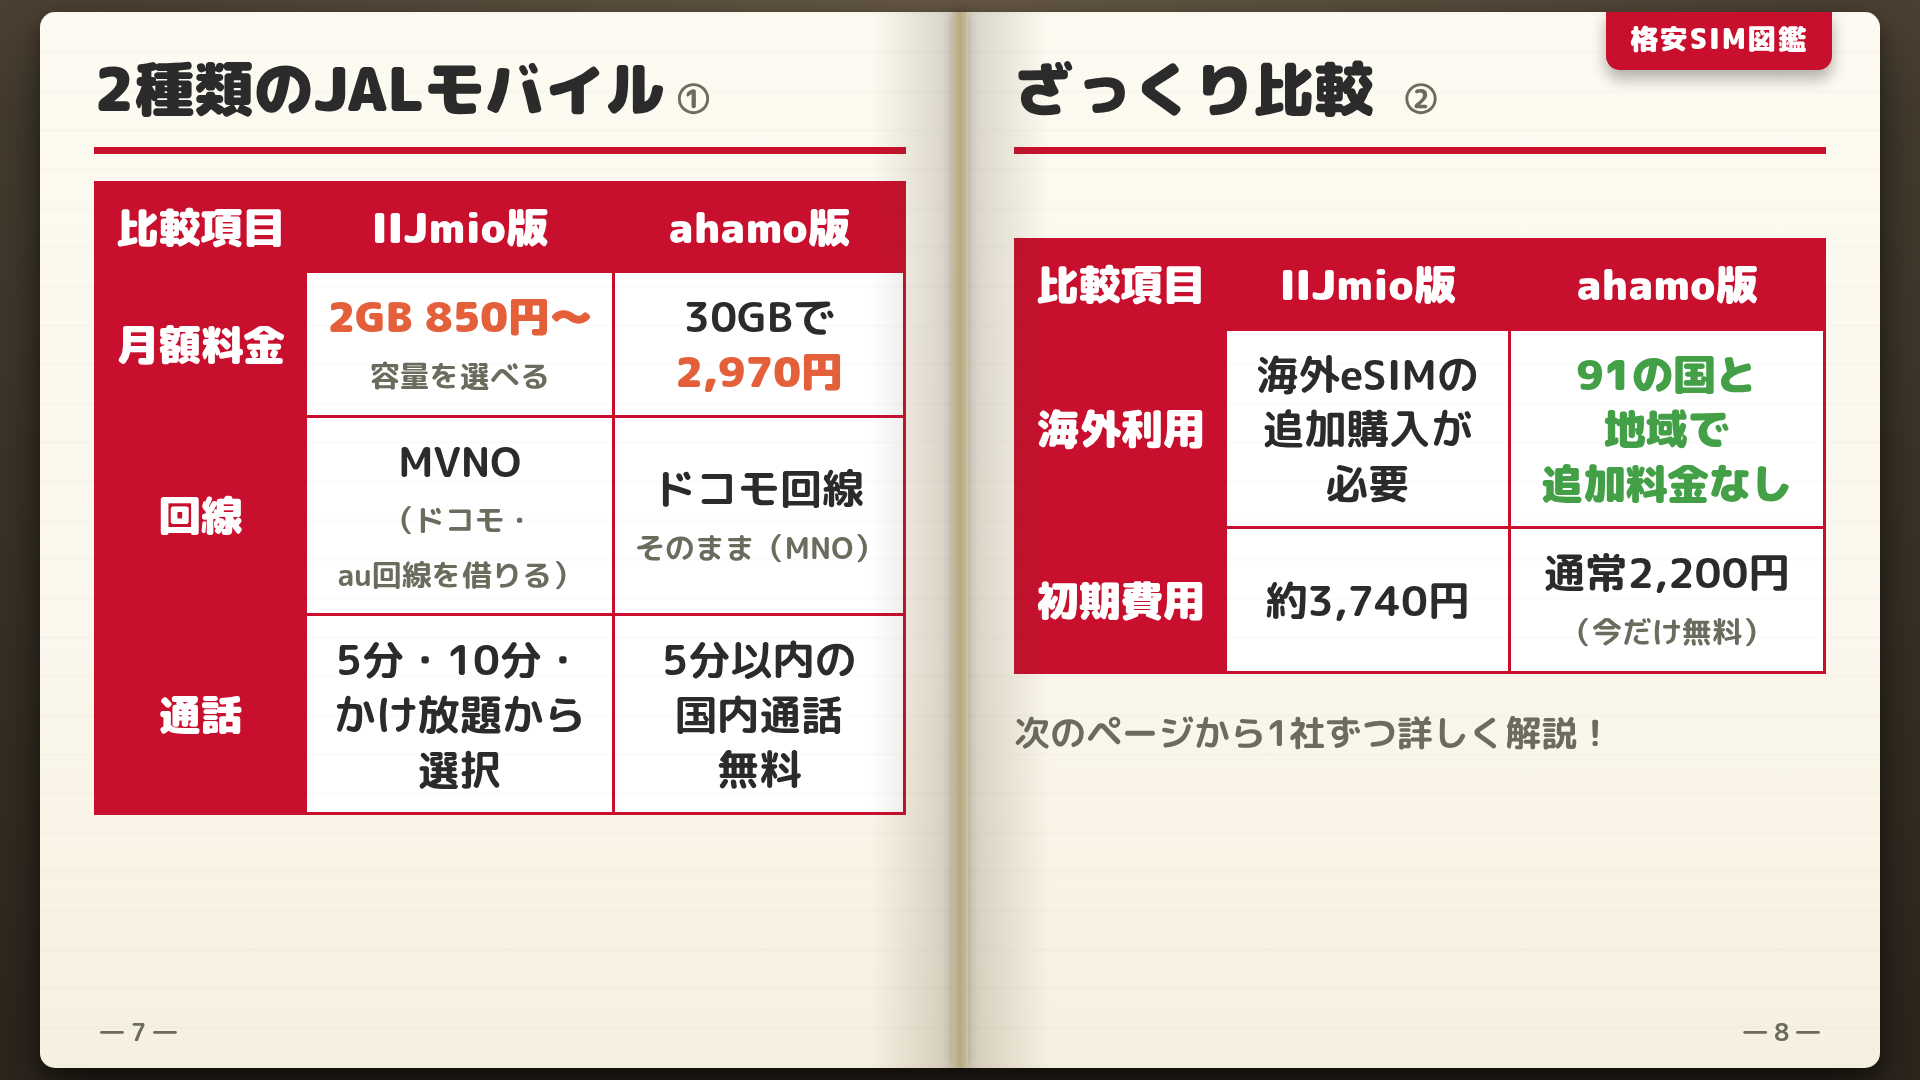
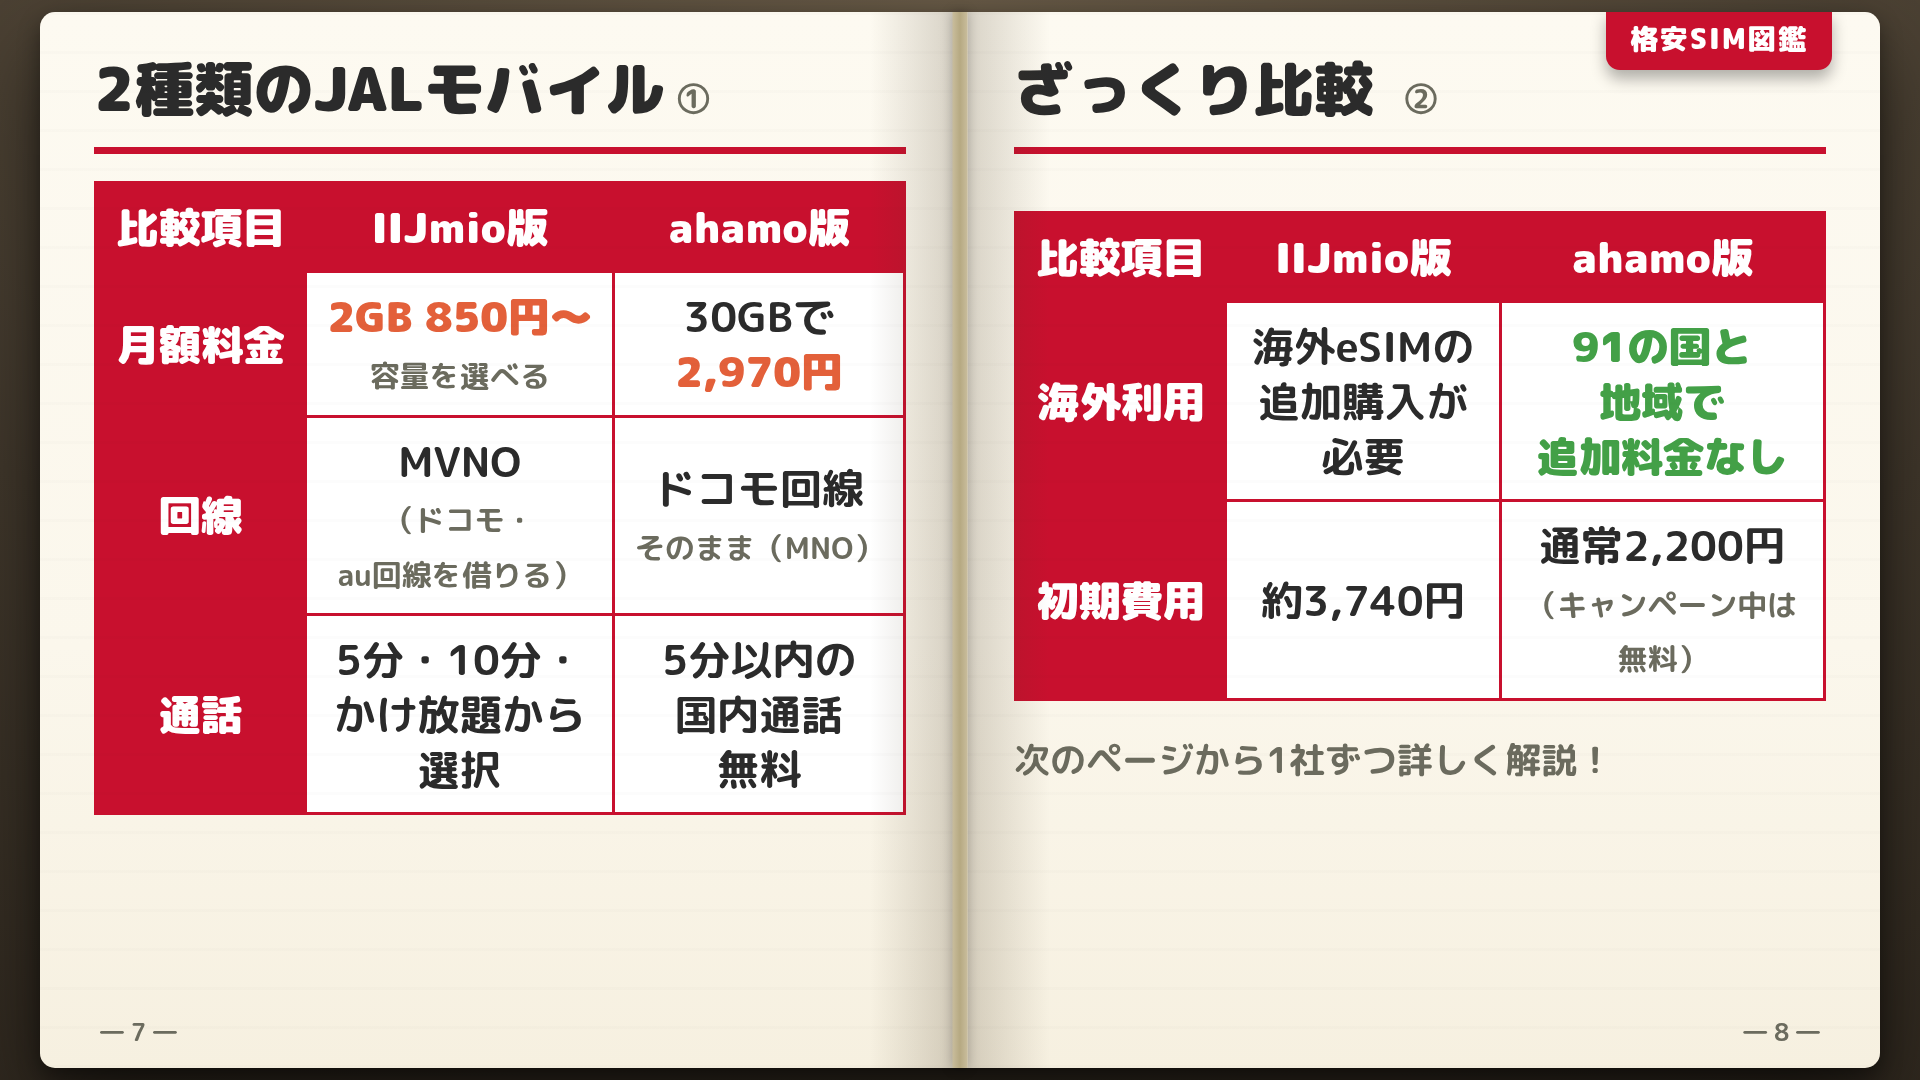
スライド修正

Changed region(s): [[0.5312, 0.1833, 0.9688, 0.6417], [0.5312, 0.6111, 0.8438, 0.7333], [0.5312, 0.3361, 0.625, 0.4278]]

diff --git a/slides.html b/slides.html
@@ -254,7 +254,7 @@
           </thead>
           <tbody>
             <tr><th>海外利用</th><td>海外eSIMの<br>追加購入が<br>必要</td><td><span style="color:#43A047;font-weight:900;">91の国と<br>地域で<br>追加料金なし</span></td></tr>
-            <tr><th>初期費用</th><td>約3,740円</td><td>通常2,200円<br><span class="sub">（今だけ無料）</span></td></tr>
+            <tr><th>初期費用</th><td>約3,740円</td><td>通常2,200円<br><span class="sub">（キャンペーン中は<br>無料）</span></td></tr>
           </tbody>
         </table>
         <div class="note" style="margin-top:12px;">次のページから1社ずつ詳しく解説！</div>
